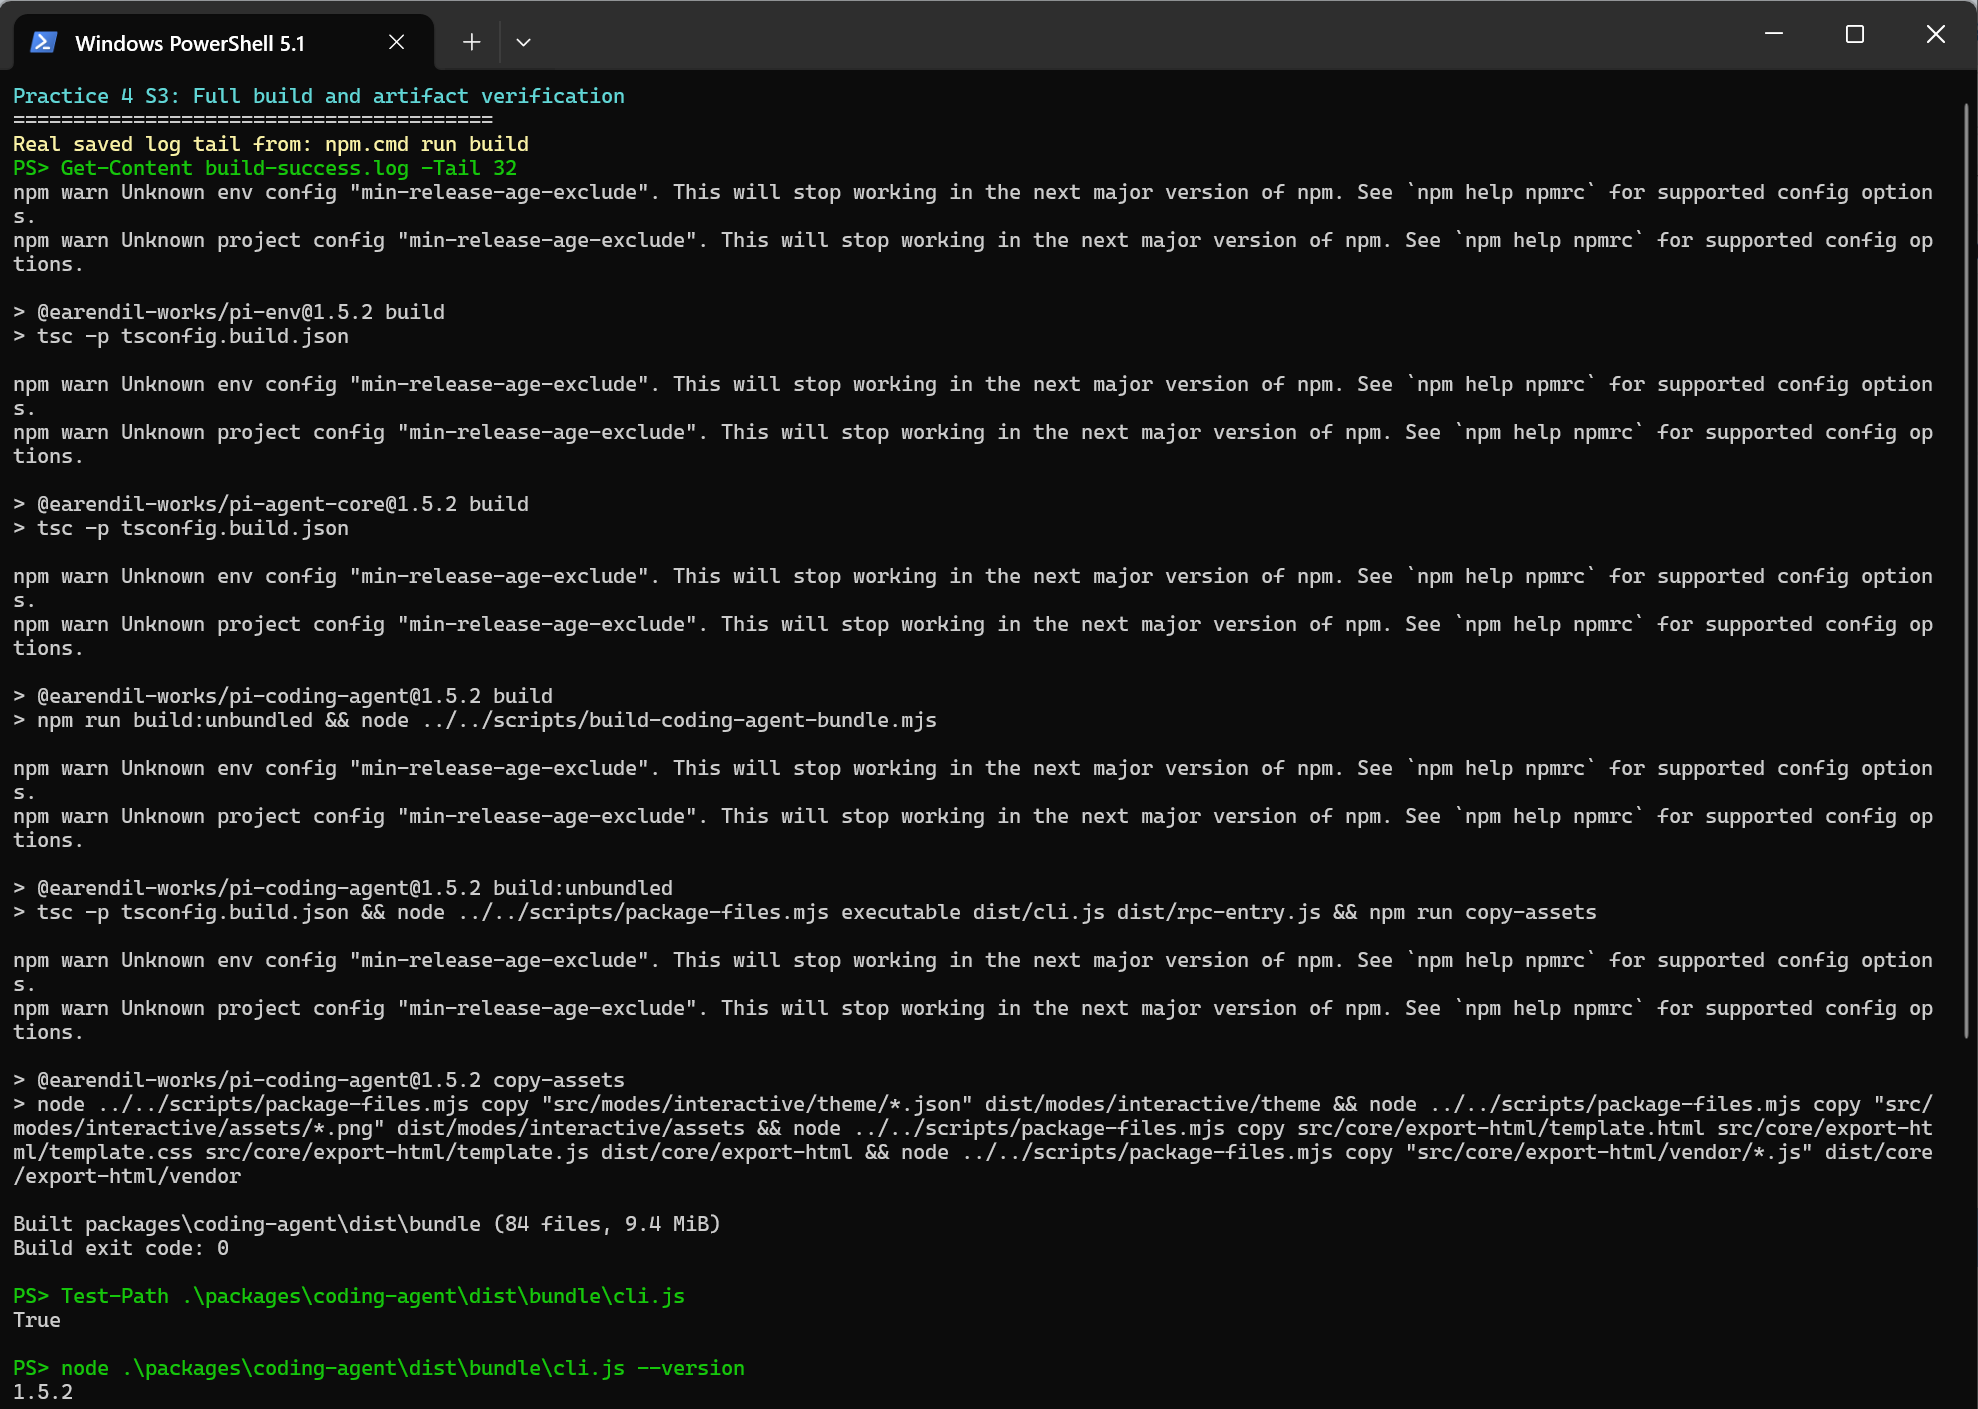
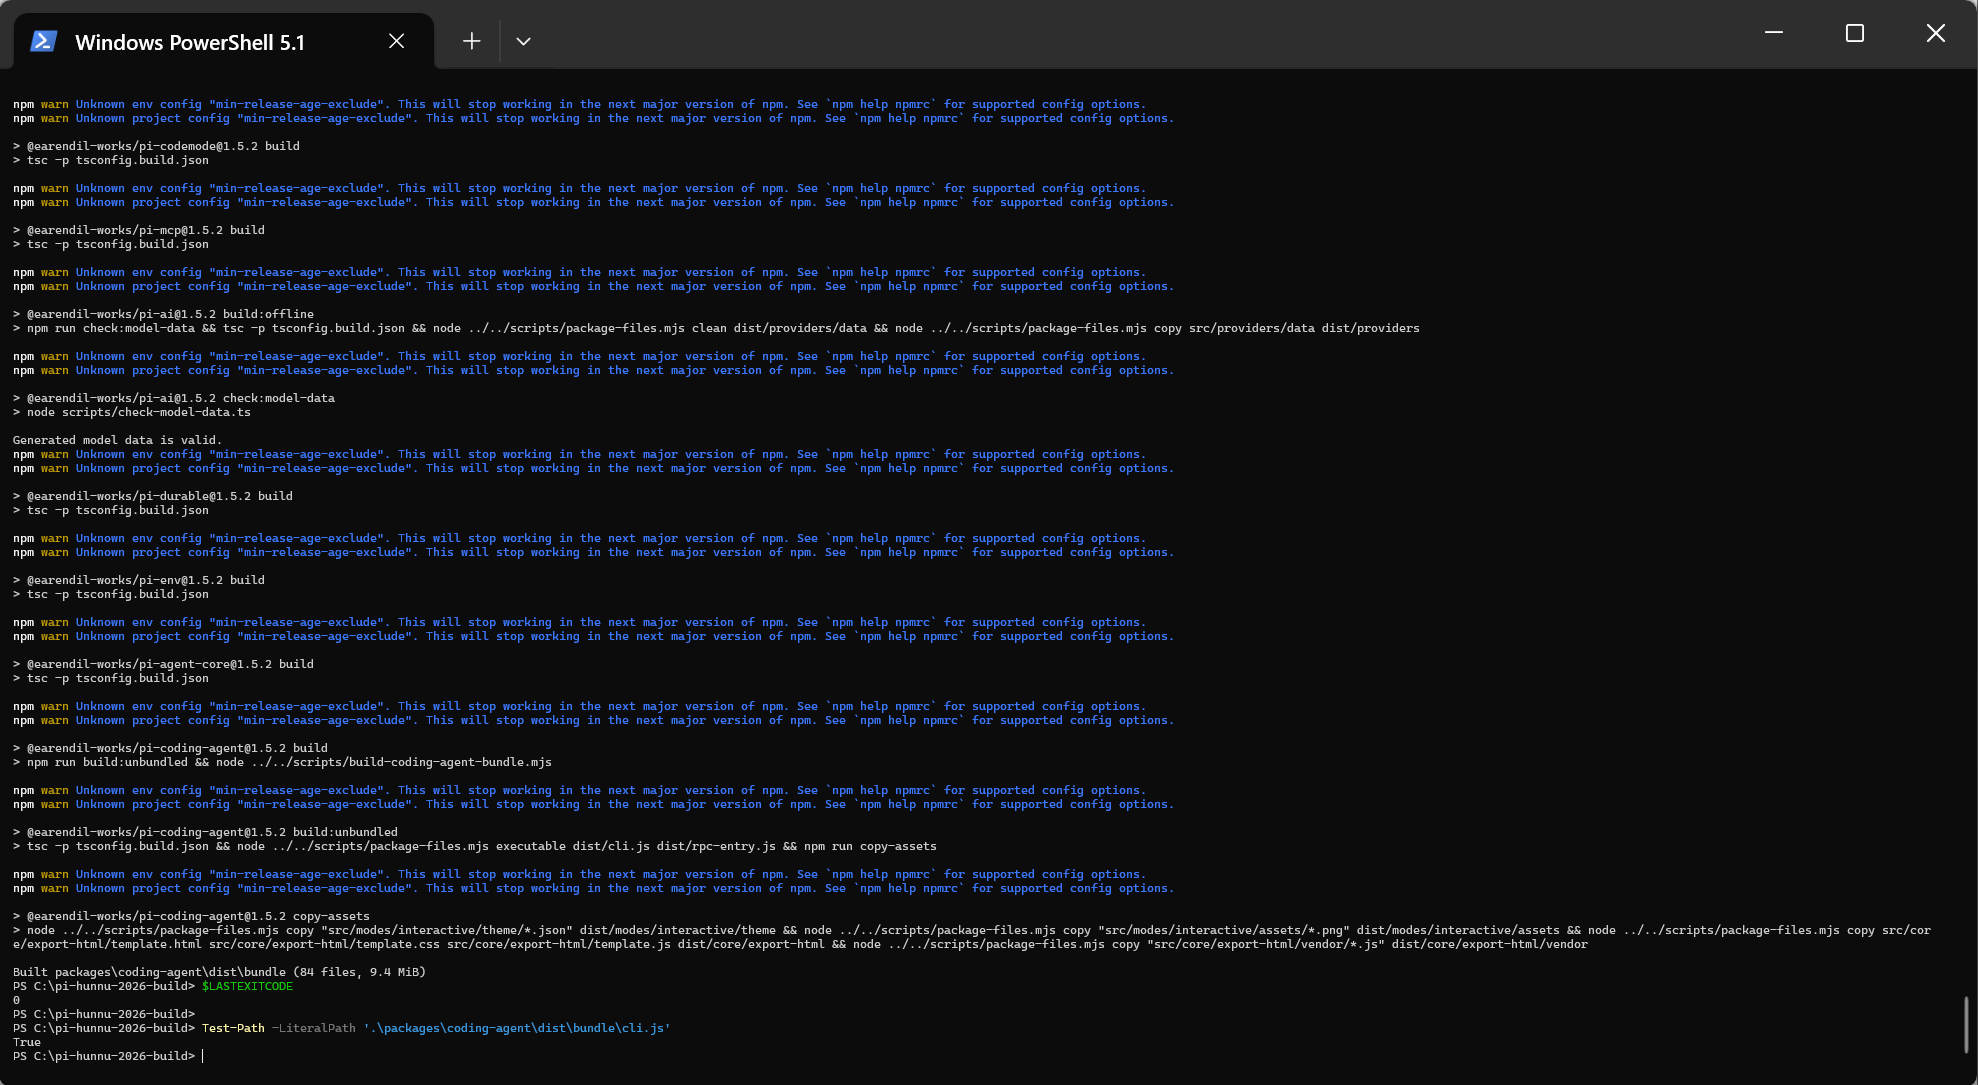
完善实践四源码与真实运行证据

diff --git a/practice-04/practice-04.md b/practice-04/practice-04.md
@@ -25,11 +25,17 @@ GitHub：`ttt587`
 
 ### 1. 工具结果写入上下文后
 
-在工具执行结果被加入 `currentContext.messages` 和 `newMessages` 后输出：
+在遍历每个工具结果时，先将当前 `result` 写入 `currentContext.messages`，随后立即输出日志，再写入 `newMessages`：
 
 ```ts
-console.error("[P4] 工具结果已加入上下文");
+for (const result of toolResults) {
+    currentContext.messages.push(result);
+    console.error("[P4] 工具结果已加入上下文");
+    newMessages.push(result);
+}
 ```
+
+![S2a 工具结果日志位于循环内部并紧跟上下文写入](screenshots/S2a-tool-result-log.png)
 
 ### 2. 请求模型前
 
@@ -37,7 +43,12 @@ console.error("[P4] 工具结果已加入上下文");
 
 ```ts
 console.error("[P4] Agent 即将请求模型");
+const response = await streamFunction(config.model, llmContext, {
+    // ...
+});
 ```
+
+![S2b 模型请求日志紧邻 streamFunction](screenshots/S2b-model-request-log.png)
 
 实验文件 `practice4.txt` 的内容为：
 
@@ -45,26 +56,26 @@ console.error("[P4] Agent 即将请求模型");
 实验代号：P4-TANCANYING-2026
 ```
 
-![S2 两处日志与实验文件](screenshots/S2-source-changes.png)
-
 ## 四、检查、构建与产物
 
-源码修改后执行：
+源码修改后先执行检查。在线构建在更新第三方模型目录时遇到 Vercel AI Gateway `403`，该步骤与本次 Agent 源码修改无关，因此改用仓库自带的离线完整构建脚本：
 
 ```powershell
 npm.cmd run check
-npm.cmd run build
+npm.cmd run build:offline
+$LASTEXITCODE
+Test-Path -LiteralPath '.\packages\coding-agent\dist\bundle\cli.js'
 ```
 
 最终结果：
 
 - 完整代码检查通过。
-- 11个模块完整构建成功，退出代码为 `0`。
+- 11个模块通过仓库自带的 `build:offline` 完整重新构建，`$LASTEXITCODE` 为 `0`。
 - `coding-agent` bundle 共生成 `84 files, 9.4 MiB`。
-- `packages/coding-agent/dist/bundle/cli.js` 存在。
+- `Test-Path` 返回 `True`，确认 `packages/coding-agent/dist/bundle/cli.js` 存在。
 - 本地源码 CLI 版本为 `1.5.2`。
 
-构建期间模型目录服务曾短暂出现 DNS/连接重置，启用 Node 环境代理并重试后完整构建成功；未通过修改小组源码规避构建步骤。
+`build:offline` 仍会重新编译包括 `agent` 和 `coding-agent` 在内的全部模块，只复用仓库中已生成并校验通过的模型数据，避免构建结果受第三方目录接口影响；未通过修改小组源码规避检查或编译步骤。
 
 ![S3 完整构建与产物核验](screenshots/S3-build-verify.png)
 
@@ -72,8 +83,9 @@ npm.cmd run build
 
 配置：
 
-- 模型：`openai-codex/gpt-6.1-sol`
-- thinking：`minimal`
+- 启动入口：本地编译产物 `packages/coding-agent/dist/bundle/cli.js`
+- 模型：`gpt-6.1-terra`
+- thinking：`medium`
 - 工具：禁用
 - 提问：用一句话解释 Git 分支是什么
 
@@ -81,18 +93,18 @@ npm.cmd run build
 
 ```text
 [P4] Agent 即将请求模型
-Git 分支是一条独立的开发线，让你在不影响主线代码的情况下开发新功能或修复问题，并在完成后合并回主线。
+Git 分支是指向某个提交的可移动指针，让你可以独立开发而不影响其他分支。
 ```
 
-会话A没有工具调用，只请求模型一次，模型直接给出最终回答。
+截图顶部显示 Pi `v1.5.2`，底部显示本地项目路径 `C:\pi-hunnu-2026-build`，证明运行的是当前仓库重新构建的本地 CLI。会话A没有工具调用，只请求模型一次，模型直接给出最终回答。
 
 ![S4 会话A](screenshots/S4-session-a.png)
 
 ## 六、会话B：读取文件
 
-配置与会话A保持相同，仅启用 `read` 工具，并要求 Pi 使用该工具读取 `practice4.txt` 后只回答实验代号。
+使用 `/new` 创建新会话，配置与会话A保持相同，并要求 Pi 使用 `read` 工具读取 `practice4.txt` 后只回答实验代号。
 
-真实日志和回答：
+真实 Pi 界面中清楚显示 `read practice4.txt` 工具记录、工具结果写入上下文日志、下一次模型请求日志和最终回答：
 
 ```text
 [P4] Agent 即将请求模型
